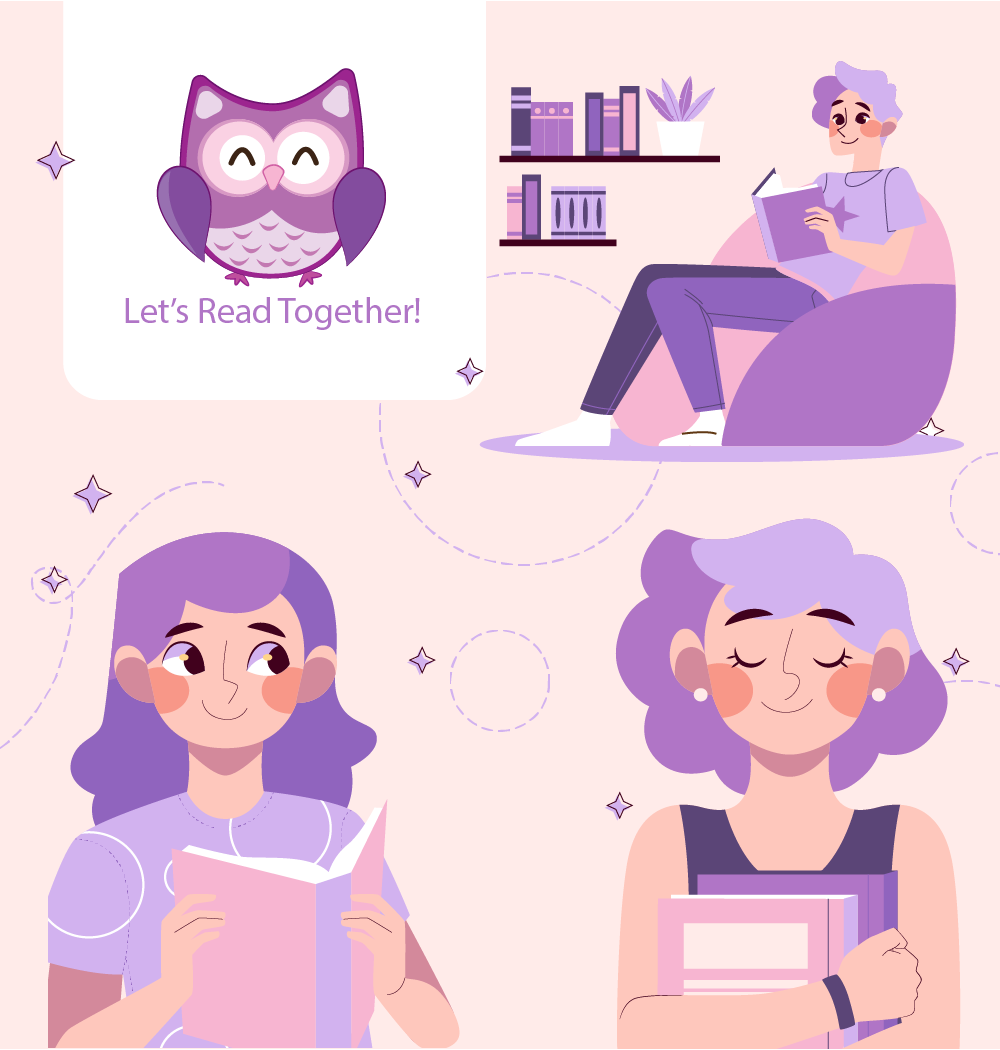
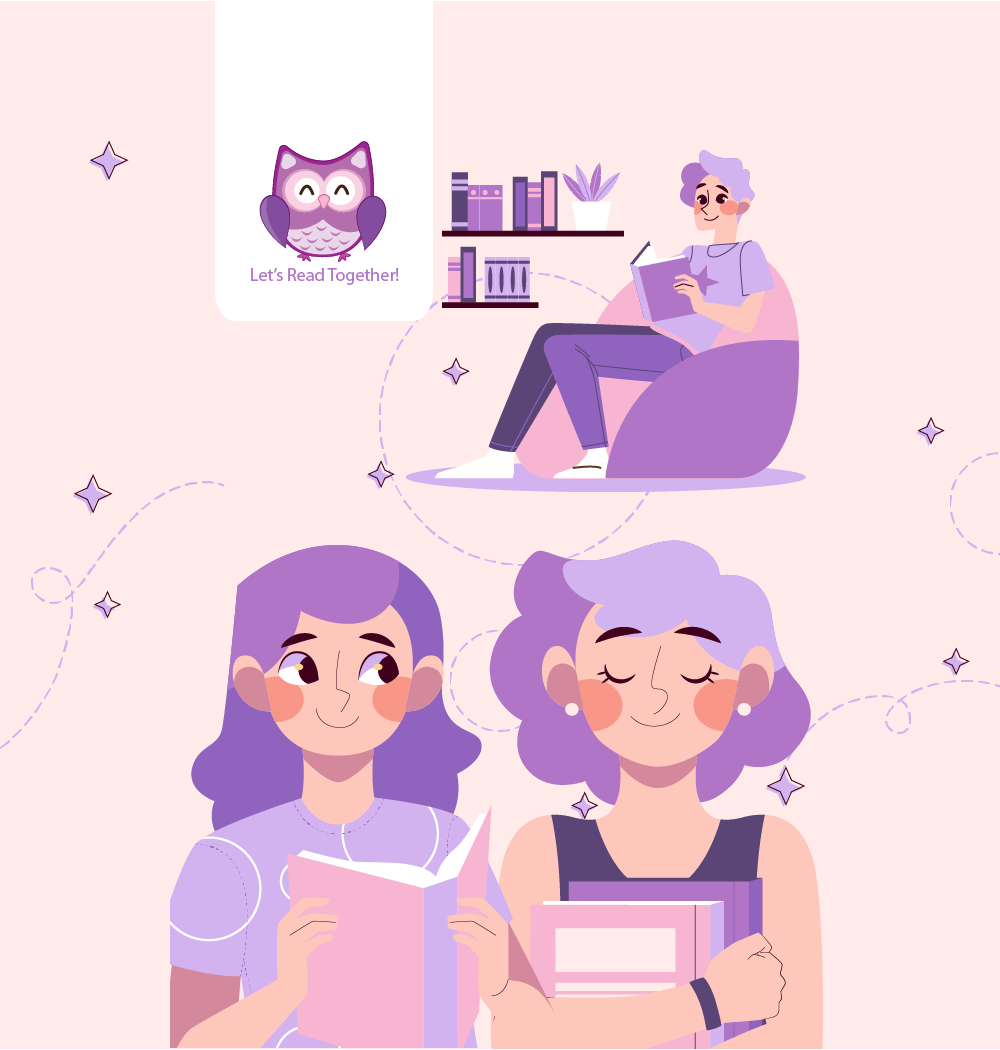
fixing login image

diff --git a/src/pages/Auth/Login.css b/src/pages/Auth/Login.css
@@ -33,14 +33,19 @@
 }
 
 .img, .login-wrap {
-    width: 100%; }
-    @media (max-width: 991.98px) {
-      .img, .login-wrap {
-        width: 100%; } }
+  width: 50%; 
+}
+
+@media (max-width: 991.98px) {
+.img, .login-wrap {
+  width: 100%; } 
+}
   
-  @media (max-width: 767.98px) {
-    .wrap .img {
-      height: 450px; } 
+@media (max-width: 767.98px) {
+.wrap .img {
+  height: 400px; } 
+.section {
+  padding: 0; }
 }
 
 .wrap {
